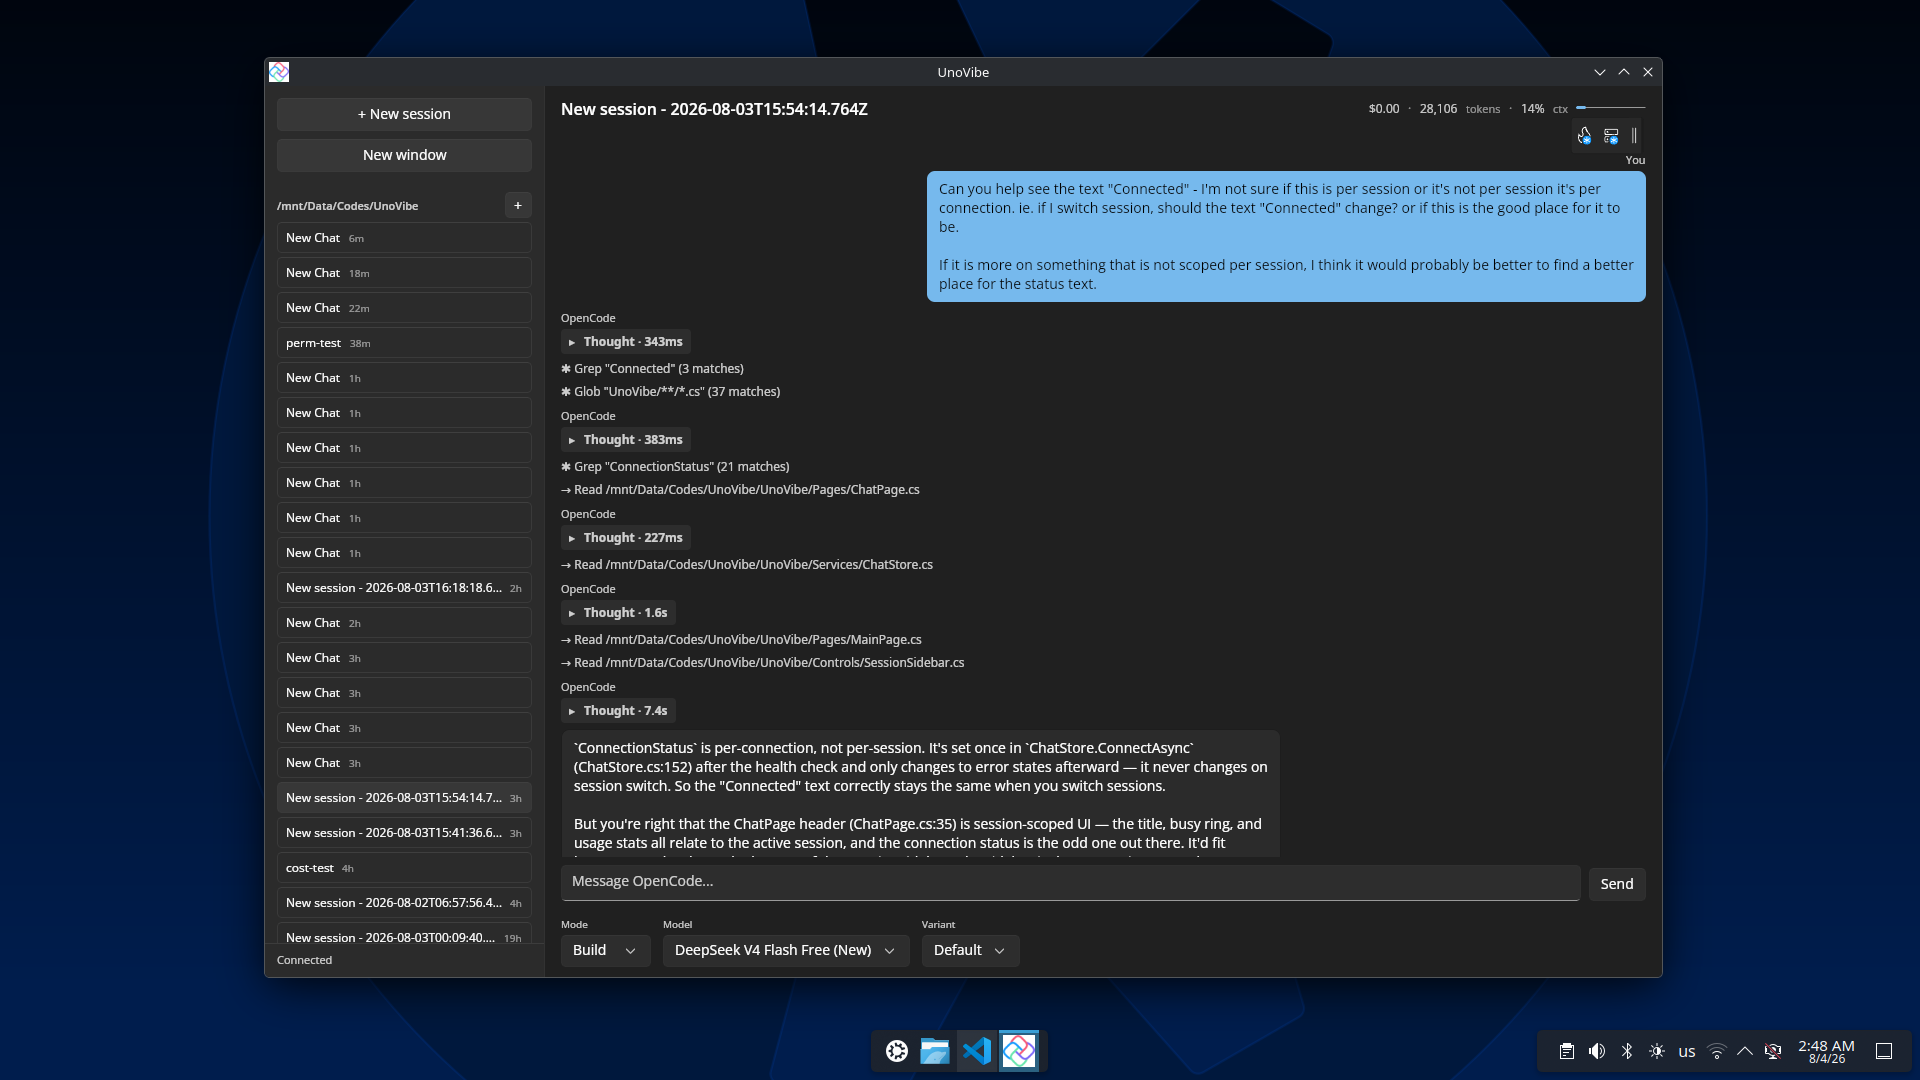
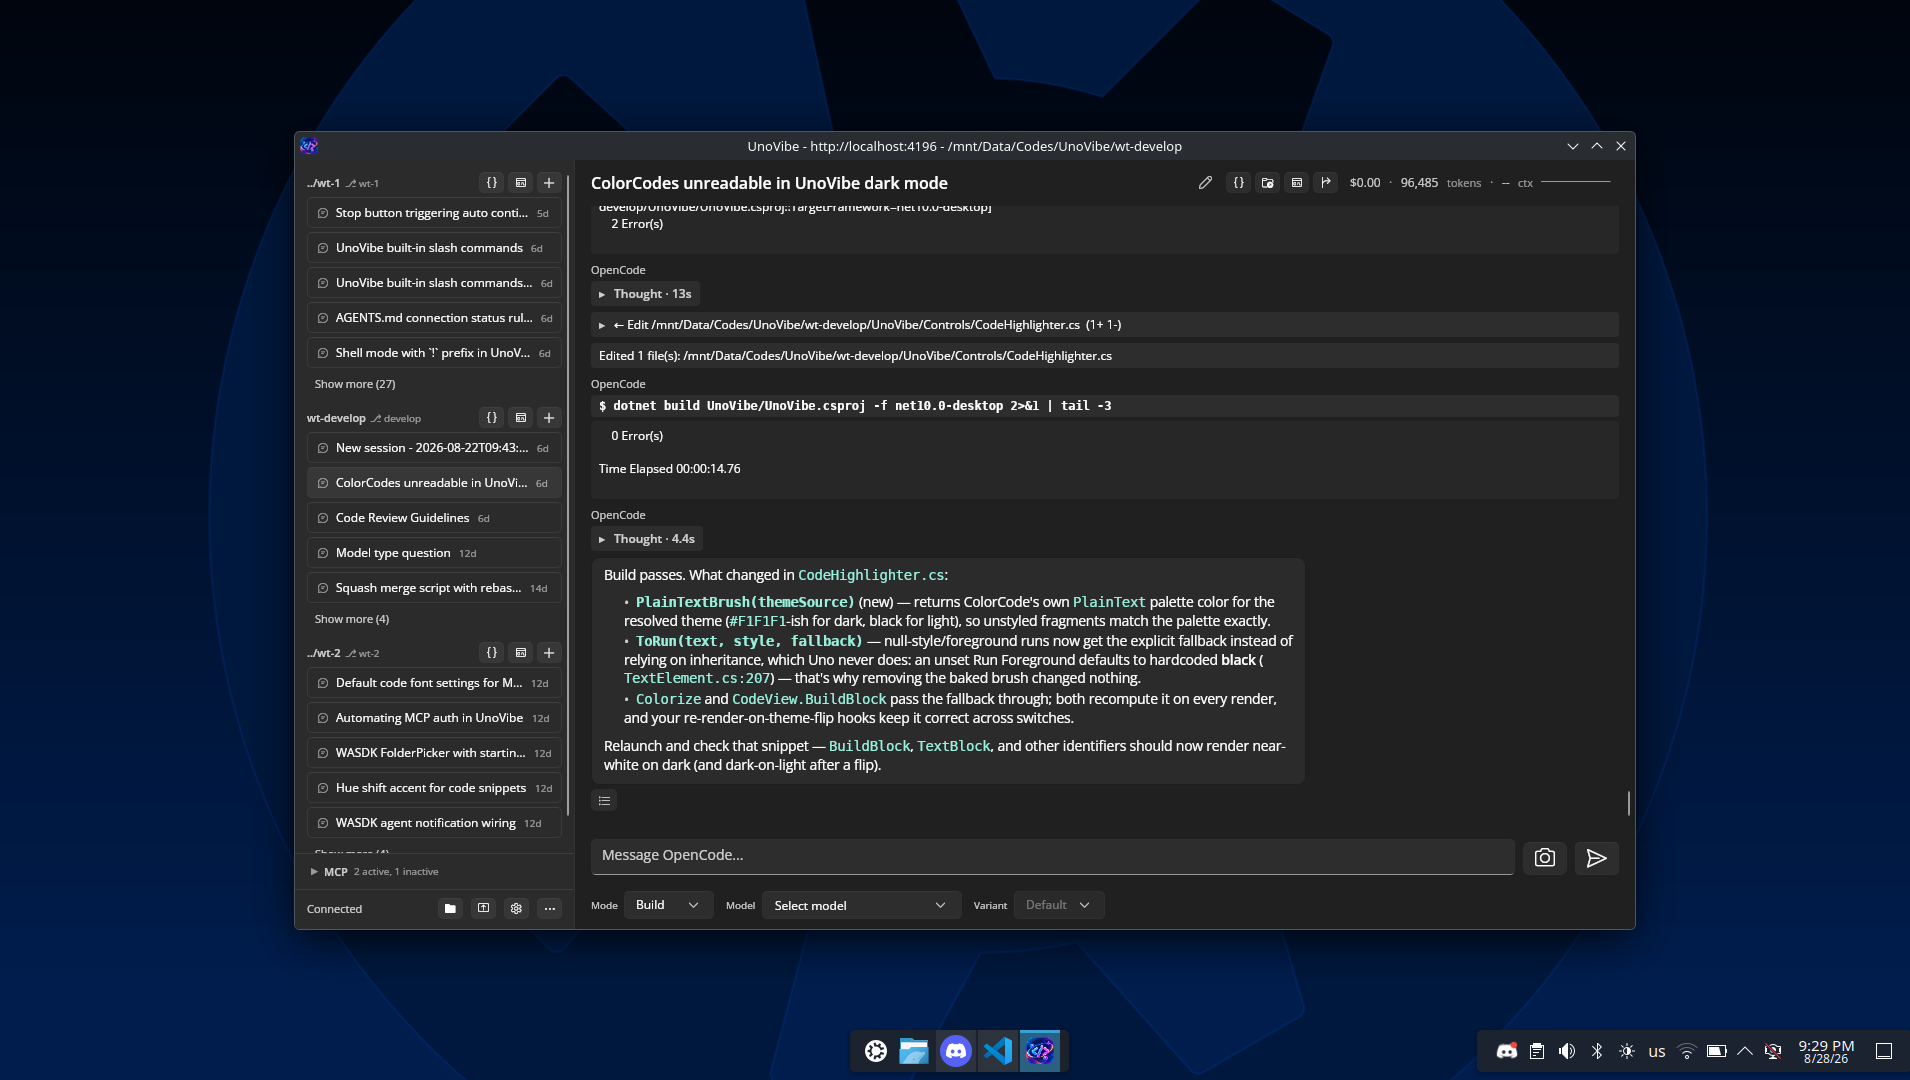
readme

Changed region(s): [[0.1236, 0.0, 0.8958, 0.9472], [0.7723, 0.9472, 1.0, 1.0], [0.4325, 0.9472, 0.556, 1.0]]

diff --git a/README.md b/README.md
@@ -4,6 +4,8 @@ A vibecoding frontend application for OpenCode.
 
 ![UnoVibe screenshot](readme-assets/image.png)
 
+![UnoVibe screenshot](readme-assets/image-windows.png)
+
 Disclaimer: Not affiliated with OpenCode and not built by OpenCode team. And you need to install opencode to use our app.
 
 To get started, you can either run `opencode serve` and connect UnoVibe to it, or UnoVibe can also help start the server for you.
